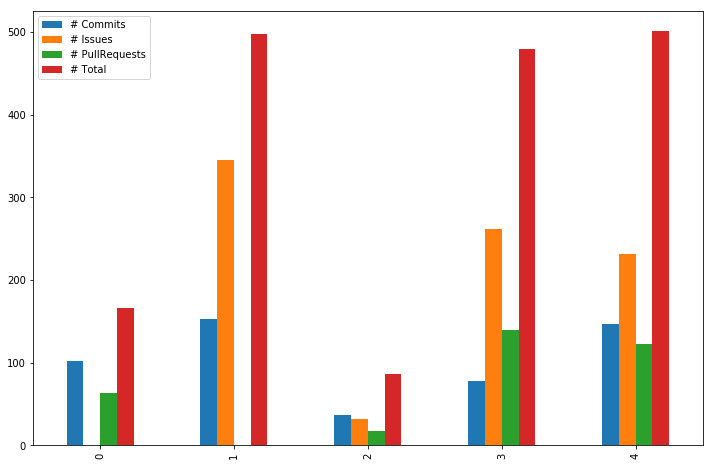
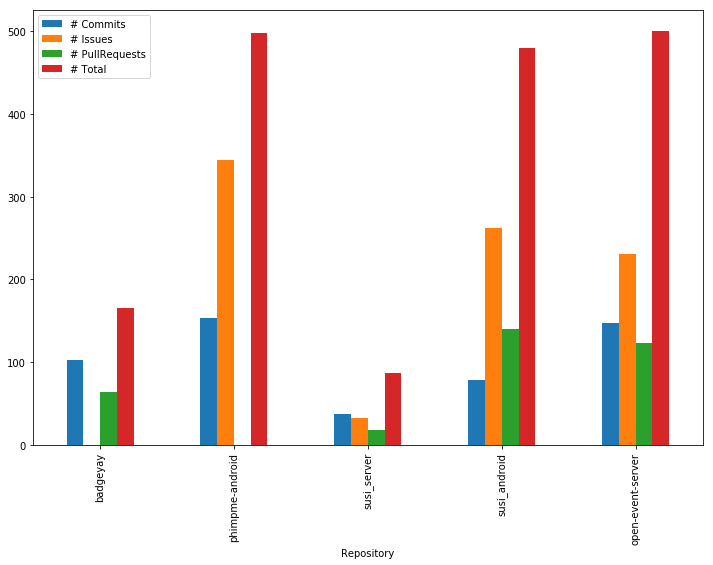
formatting

diff --git a/microtask-3/README.md b/microtask-3/README.md
@@ -1,3 +1,17 @@
 ## Microtask 3
 
 Produce a notebook with charts showing the distribution of time-to-close for issues already closed, and opened during the last year, for each of the repositories analyzed, and for all of them together. Use Pandas for this, and the Python charting library of your choice (as long as it is a FOSS module).
+
+## Solution
+
+[Link to the Notebook](https://github.com/vchrombie/chaoss-microtasks/blob/master/microtask-3/microtask-3.ipynb)
+
+| Repository | Chart |
+| --- | --- |
+| [badgeyay](https://github.com/fossasia/badgeyay) | ![badgeyay](badgeyay.png) |
+| [open-event-server](https://github.com/fossasia/open-event-server) | ![open-event-server](open-event-server.png) |
+| [phimpme-android](https://github.com/fossasia/phimpme-android) | ![phimpme-android](phimpme-android.png) |
+| [susi_android](https://github.com/fossasia/susi_android) | ![susi_android](susi_android.png) |
+| [susi_server](https://github.com/fossasia/susi_server) | ![susi_server](susi_server.png) |
+
+## Explanation

diff --git a/microtask-4/README.md b/microtask-4/README.md
@@ -1,3 +1,13 @@
 ## Microtask 4
 
 Produce a listing of repositories, as a table and as CSV file, with the number of commits authored, issues opened, and pull/merge requests opened, during the last three months, ordered by the total number (commits plus issues plus pull requests). Use plain Python3 (eg, no Pandas) for this.
+
+## Solution
+
+[Link to the Notebook](https://github.com/vchrombie/chaoss-microtasks/blob/master/microtask-4/microtask-4.ipynb)
+
+CSV file: [results.csv](microtask-4/results.csv)
+
+![mt4](../images/mt4.png)
+
+## Explanation

diff --git a/microtask-5/README.md b/microtask-5/README.md
@@ -1,3 +1,15 @@
 ## Microtask 5
 
 Same as [microtask-4](https://github.com/vchrombie/chaoss-microtasks#microtask-4), but now using [pandas](http://pandas.pydata.org/).
+
+## Solution
+
+[Link to the Notebook](https://github.com/vchrombie/chaoss-microtasks/blob/master/microtask-5/microtask-5.ipynb)
+
+CSV file: [results.csv](microtask-5/results.csv)
+
+![mt5](../images/mt5.png)
+
+![mt5bar](mt5-bar.png)
+
+## Explanation
